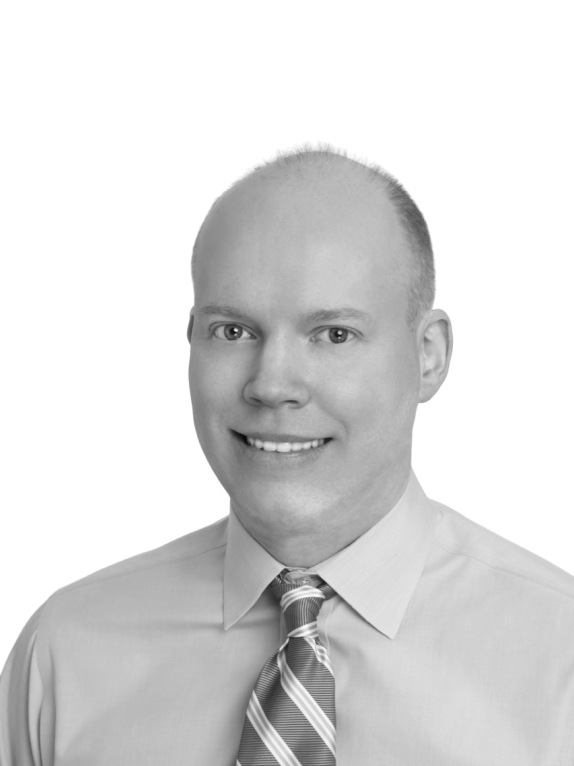
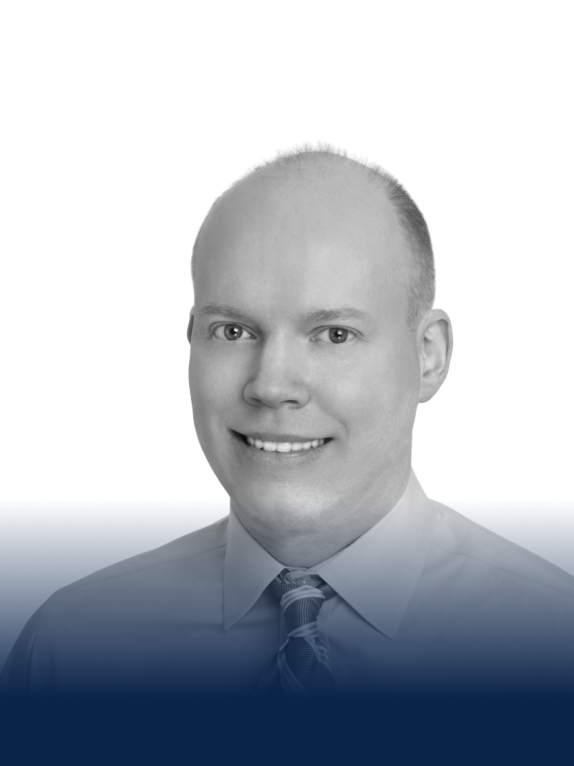
upd

diff --git a/Skorodumov-landing/style/style.css b/Skorodumov-landing/style/style.css
@@ -1453,25 +1453,13 @@ br {
   position: relative;
   min-height: 1000px;
   width: 100%;
-  background: -webkit-gradient(linear, left top, left bottom, color-stop(3.6%, #0A2349), color-stop(74.98%, rgba(10, 35, 73, 0.6))), url("../img/background-svg/contact.svg"), radial-gradient(44.37% 102.93% at 61.48% 44.41%, rgba(7, 25, 65, 0) 0%, rgba(7, 25, 65, 0.58) 47.92%, #0A2349 100%), url("../img/contact/contact.png");
-  background: linear-gradient(180deg, #0A2349 3.6%, rgba(10, 35, 73, 0.6) 74.98%), url("../img/background-svg/contact.svg"), radial-gradient(44.37% 102.93% at 61.48% 44.41%, rgba(7, 25, 65, 0) 0%, rgba(7, 25, 65, 0.58) 47.92%, #0A2349 100%), url("../img/contact/contact.png");
+  background: -webkit-gradient(linear, left top, left bottom, from(transparent), color-stop(70%, #0A2349)), -webkit-gradient(linear, left top, left bottom, color-stop(3.6%, #0A2349), color-stop(74.98%, rgba(10, 35, 73, 0.6))), url("../img/background-svg/contact.svg"), radial-gradient(44.37% 102.93% at 61.48% 44.41%, rgba(7, 25, 65, 0) 0%, rgba(7, 25, 65, 0.58) 47.92%, #0A2349 100%), url("../img/contact/contact.png");
+  background: linear-gradient(to bottom, transparent, #0A2349 70%), linear-gradient(180deg, #0A2349 3.6%, rgba(10, 35, 73, 0.6) 74.98%), url("../img/background-svg/contact.svg"), radial-gradient(44.37% 102.93% at 61.48% 44.41%, rgba(7, 25, 65, 0) 0%, rgba(7, 25, 65, 0.58) 47.92%, #0A2349 100%), url("../img/contact/contact.png");
   background-repeat: no-repeat;
-  background-size: cover, auto 100%, cover, cover;
-  background-position: center, 15%, center, center;
+  background-size: 100% 300px, cover, auto 100%, cover, cover;
+  background-position: bottom, 15%, center, center;
   overflow: hidden;
   z-index: 103;
-}
-.contact::after {
-  content: "";
-  position: absolute;
-  width: 130%;
-  height: 600px;
-  bottom: -300px;
-  left: -15%;
-  background: #0A2349;
-  -webkit-filter: blur(100px);
-          filter: blur(100px);
-  z-index: 2000;
 }
 .contact::before {
   content: "";
@@ -1547,28 +1535,16 @@ br {
     position: relative;
     min-height: 100vh;
     width: 100%;
-    background: -webkit-gradient(linear, left top, left bottom, color-stop(3.6%, #0A2349), color-stop(74.98%, rgba(10, 35, 73, 0.6))), radial-gradient(44.37% 102.93% at 61.48% 44.41%, rgba(7, 25, 65, 0) 0%, rgba(7, 25, 65, 0.58) 47.92%, #0A2349 100%), url("../img/contact/contact.png");
-    background: linear-gradient(180deg, #0A2349 3.6%, rgba(10, 35, 73, 0.6) 74.98%), radial-gradient(44.37% 102.93% at 61.48% 44.41%, rgba(7, 25, 65, 0) 0%, rgba(7, 25, 65, 0.58) 47.92%, #0A2349 100%), url("../img/contact/contact.png");
+    background: -webkit-gradient(linear, left top, left bottom, from(transparent), color-stop(70%, #0A2349)), -webkit-gradient(linear, left top, left bottom, color-stop(3.6%, #0A2349), color-stop(74.98%, rgba(10, 35, 73, 0.6))), radial-gradient(44.37% 102.93% at 61.48% 44.41%, rgba(7, 25, 65, 0) 0%, rgba(7, 25, 65, 0.58) 47.92%, #0A2349 100%), url("../img/contact/contact.png");
+    background: linear-gradient(to bottom, transparent, #0A2349 70%), linear-gradient(180deg, #0A2349 3.6%, rgba(10, 35, 73, 0.6) 74.98%), radial-gradient(44.37% 102.93% at 61.48% 44.41%, rgba(7, 25, 65, 0) 0%, rgba(7, 25, 65, 0.58) 47.92%, #0A2349 100%), url("../img/contact/contact.png");
     background-repeat: no-repeat;
-    background-size: cover, cover, cover;
-    background-position: center, center, center;
+    background-size: 100% 300px, cover, cover, cover;
+    background-position: bottom, center, center, center;
   }
 }
 @media screen and (max-width: 750px) {
   .title {
     font-size: 80px;
-  }
-  .contact::after {
-    content: "";
-    position: absolute;
-    width: 180%;
-    height: 300px;
-    bottom: -150px;
-    left: -40%;
-    background: #0A2349;
-    -webkit-filter: blur(50px);
-            filter: blur(50px);
-    z-index: -1;
   }
   .contact::before {
     background-size: 300px;
@@ -1579,10 +1555,7 @@ br {
     font-size: 40px;
   }
   .contact {
-    background-position: 35%;
-  }
-  .contact::after {
-    bottom: -177px;
+    background-position: bottom, 35%;
   }
   .contact::before {
     background-size: 223px;
@@ -2342,7 +2315,7 @@ br {
     -webkit-transition: 0s;
     transition: 0s;
   }
-  .physics__star::hover {
+  .physics__star:hover {
     -webkit-transition: 0s;
     transition: 0s;
   }

diff --git a/Skorodumov-landing/style/style.scss b/Skorodumov-landing/style/style.scss
@@ -1633,27 +1633,18 @@ br{
 	min-height: 1000px;
 	width: 100%;
 	background:
+		linear-gradient(to bottom, transparent, #0A2349 70%),
 		linear-gradient(180deg, #0A2349 3.6%, rgba(10, 35, 73, 0.6) 74.98%),
 		url('../img/background-svg/contact.svg'),
 		radial-gradient(44.37% 102.93% at 61.48% 44.41%, rgba(7, 25, 65, 0) 0%, rgba(7, 25, 65, 0.58) 47.92%, #0A2349 100%),
 
 		url('../img/contact/contact.png');
 	background-repeat: no-repeat;
-	background-size: cover,auto 100%, cover,  cover;
-	background-position: center,  15%, center, center;
+	background-size: 100% 300px, cover,auto 100%, cover,  cover;
+	background-position: bottom,  15%, center, center;
 	overflow: hidden;
 	z-index: 103;
-	&::after{
-		content: '';
-		position: absolute;
-		width: 130%;
-		height: 600px;
-		bottom: -300px;
-		left: -15%;
-		background: #0A2349;
-		filter: blur(100px);
-		z-index: 2000;
-	}
+
 	&::before{
 		content: '';
 		position: absolute;
@@ -1738,12 +1729,13 @@ br{
 		min-height: 100vh;
 		width: 100%;
 		background:
+			linear-gradient(to bottom, transparent, #0A2349 70%),
 			linear-gradient(180deg, #0A2349 3.6%, rgba(10, 35, 73, 0.6) 74.98%),
 			radial-gradient(44.37% 102.93% at 61.48% 44.41%, rgba(7, 25, 65, 0) 0%, rgba(7, 25, 65, 0.58) 47.92%, #0A2349 100%),
 			url('../img/contact/contact.png');
 		background-repeat: no-repeat;
-		background-size: cover, cover,  cover;
-		background-position: center, center, center;
+		background-size: 100% 300px, cover, cover,  cover;
+		background-position: bottom, center, center, center;
 	}
 }
 @media screen and (max-width: 750px) {
@@ -1752,17 +1744,7 @@ br{
 	}
 	.contact {
 	
-	&::after{
-		content: '';
-		position: absolute;
-		width: 180%;
-		height: 300px;
-		bottom: -150px;
-		left: -40%;
-		background: #0A2349;
-		filter: blur(50px);
-		z-index: -1;
-	}
+
 	&::before{
 		background-size: 300px;
 	}
@@ -1809,10 +1791,7 @@ br{
 		font-size: 40px;
 	}
 	.contact {
-	background-position: 35%;
-	&::after{
-		bottom: -177px;
-	}
+	background-position: bottom, 35%;
 	&::before{
 		background-size: 223px;
 	}
@@ -3117,7 +3096,7 @@ br{
 	.physics{
 		&__star{
 			transition: 0s;
-			&::hover{
+			&:hover{
 				transition: 0s;
 			}
 		}
